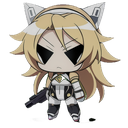
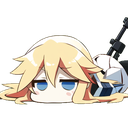
feat: finalize Aurora dead sprite (seed 6001) + add dead mode to generator
Collapsed pose with closed eyes, rifle beside her. Green chroma-key
removed with fringe cleanup. Added dead mode to generate_character_sheet.py
with per-character defeated pose tags.

diff --git a/generate_character_sheet.py b/generate_character_sheet.py
@@ -119,6 +119,18 @@ CHIBI_SUFFIX = """
 front view, standing pose,
 cute expression, blush,"""
 
+CHIBI_DEAD_SUFFIX = """
+fallen, collapsed, lying down, defeated,
+eyes closed, unconscious, knocked out,
+broken weapon nearby, sad, damaged armor,"""
+
+DEAD_TAGS = {
+    "aurora": "collapsed over broken sniper rifle, visor cracked,",
+    "rex": "fallen on side, shield cracked, sword dropped nearby,",
+    "lily": "lying on back, coat spread, no healing glow, pistol dropped,",
+    "hana": "slumped forward, wrench dropped, goggles cracked beside her,",
+}
+
 NEGATIVE_BASE = """bad anatomy, bad hands, missing fingers, extra fingers,
 blurry, low quality, worst quality,
 watermark, text, signature, username,
@@ -158,6 +170,20 @@ def build_chibi_workflow(character: str, seed: int, ref_image: str = None) -> di
     return _make_workflow(positive, negative, seed,
                          width=384, height=384,
                          filename=f"{character}_chibi_seed{seed}",
+                         checkpoint="anything-v5.safetensors",
+                         steps=25, cfg=7.0)
+
+
+def build_dead_workflow(character: str, seed: int) -> dict:
+    """Build single dead/defeated chibi sprite on Anything V5."""
+    char = IDENTITY[character]
+    dead_extra = DEAD_TAGS.get(character, "")
+    positive = CHIBI_PREFIX + char["tags"] + "\n" + dead_extra + CHIBI_DEAD_SUFFIX
+    negative = char["extra_negative"] + NEGATIVE_BASE + CHIBI_NEGATIVE_EXTRA + "\nstanding, happy, smiling, open eyes,"
+
+    return _make_workflow(positive, negative, seed,
+                         width=384, height=384,
+                         filename=f"{character}_dead_seed{seed}",
                          checkpoint="anything-v5.safetensors",
                          steps=25, cfg=7.0)
 
@@ -417,6 +443,8 @@ def generate_batch(character: str, seeds: list, mode: str,
         print(f"[{mode} seed {seed}] Queuing...")
         if mode == "portrait":
             workflow = build_portrait_workflow(character, seed)
+        elif mode == "dead":
+            workflow = build_dead_workflow(character, seed)
         else:
             workflow = build_chibi_workflow(character, seed, ref_image=ref_filename)
 
@@ -436,8 +464,8 @@ def main():
     parser = argparse.ArgumentParser(description="Generate ARIA character sheets with IP-Adapter")
     parser.add_argument("--character", required=True, choices=list(IDENTITY.keys()))
     parser.add_argument("--seeds", default="3001-3005", help="Seed or range (e.g. 3001 or 3001-3005)")
-    parser.add_argument("--mode", default="chibi", choices=["portrait", "chibi", "both"],
-                        help="Generate portrait, chibi sheet, or both")
+    parser.add_argument("--mode", default="chibi", choices=["portrait", "chibi", "dead", "both"],
+                        help="Generate portrait, chibi, dead, or both (portrait+chibi)")
     parser.add_argument("--ref", default=None, help="Reference portrait image for IP-Adapter (chibi mode)")
     parser.add_argument("--weight", type=float, default=0.8, help="IP-Adapter weight (0.0-1.0)")
     parser.add_argument("--output", default="output/sheets", help="Output directory")
